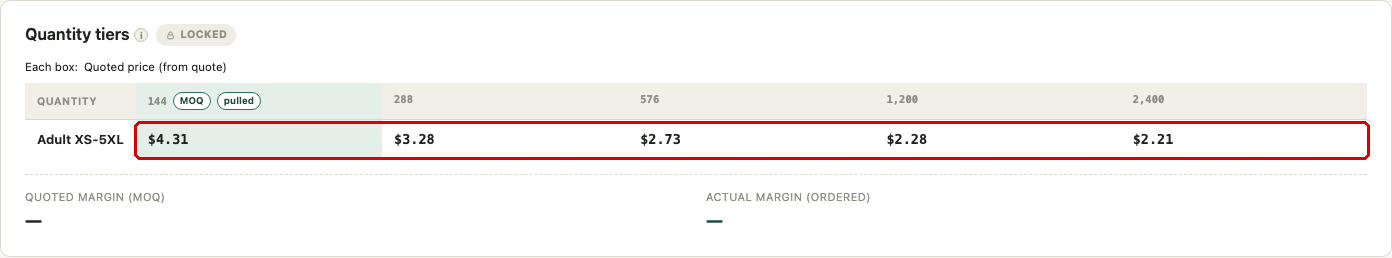
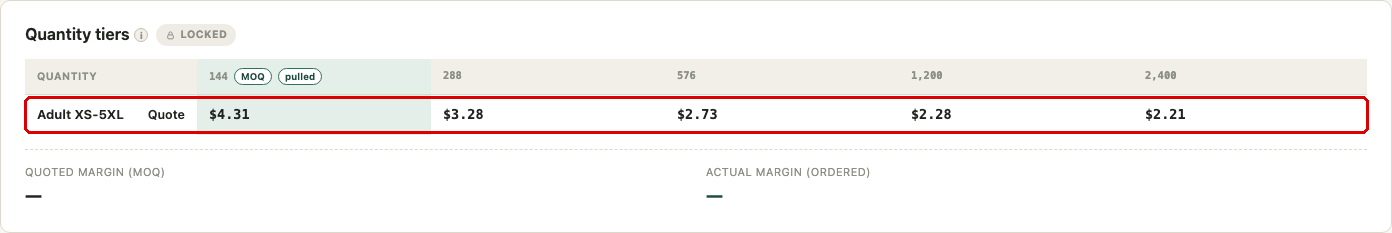
doc: d/paradies-cost-sheet-edits-1014-8e41c7d2 (Paradies cost sheet edits from the 10/14 note)

diff --git a/d/paradies-cost-sheet-edits-1014-8e41c7d2/index.html b/d/paradies-cost-sheet-edits-1014-8e41c7d2/index.html
@@ -1383,7 +1383,8 @@
             “Each box: Total cost · Quoted price · Margin $ / Margin %” line
             underlined in the note is gone, because the new column says the same
             thing. Its help icons and the required mark for the quoted price sit
-            on the Quote and Margin labels now.
+            on the Quote and Margin labels now. The production copy’s price
+            table has the same label column and no line above it.
           </p>
           <figure class="shot">
             <div class="who">The note</div>
@@ -1419,6 +1420,25 @@
               Step 3 on the test Full Package sheet. The label column, outlined,
               carries the help icons and the required mark. The line above the
               table is gone.
+            </figcaption>
+          </figure>
+          <figure class="shot">
+            <div class="who">Now, in the sandbox</div>
+            <a
+              href="img/a06-production-copy.png"
+              target="_blank"
+              rel="noopener"
+              title="Open full size"
+              ><img
+                src="img/a06-production-copy.png"
+                alt="A Full Package production copy. Its price table has the same label column (Cost, Quote), outlined, and no line above the table."
+                width="1392"
+                height="375"
+                loading="lazy"
+            /></a>
+            <figcaption>
+              A Full Package production copy. Its price table has the same label
+              column (Cost, Quote), outlined, and no line above the table.
             </figcaption>
           </figure>
         </div>
@@ -2935,12 +2955,15 @@
               title="Open full size"
               ><img
                 src="img/sa-s8-contract-production-tiers.png"
-                alt="After: each price once (outlined)."
+                alt="After: each price once (outlined), with the Quote label beside the size."
                 width="1392"
-                height="258"
+                height="233"
                 loading="lazy"
             /></a>
-            <figcaption>After: each price once (outlined).</figcaption>
+            <figcaption>
+              After: each price once (outlined), with the Quote label beside the
+              size.
+            </figcaption>
           </figure>
         </div>
         <div class="note" id="s9">
